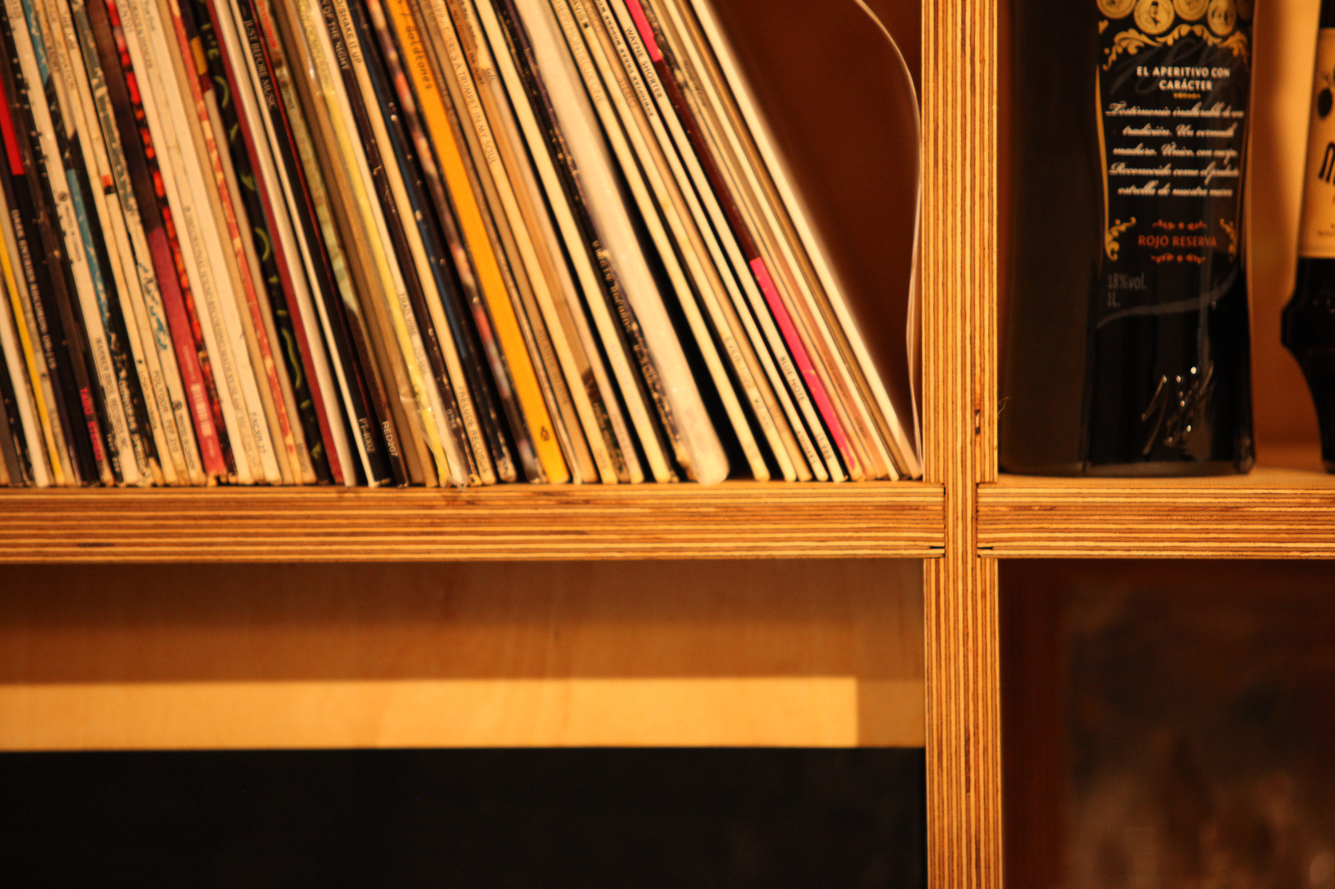
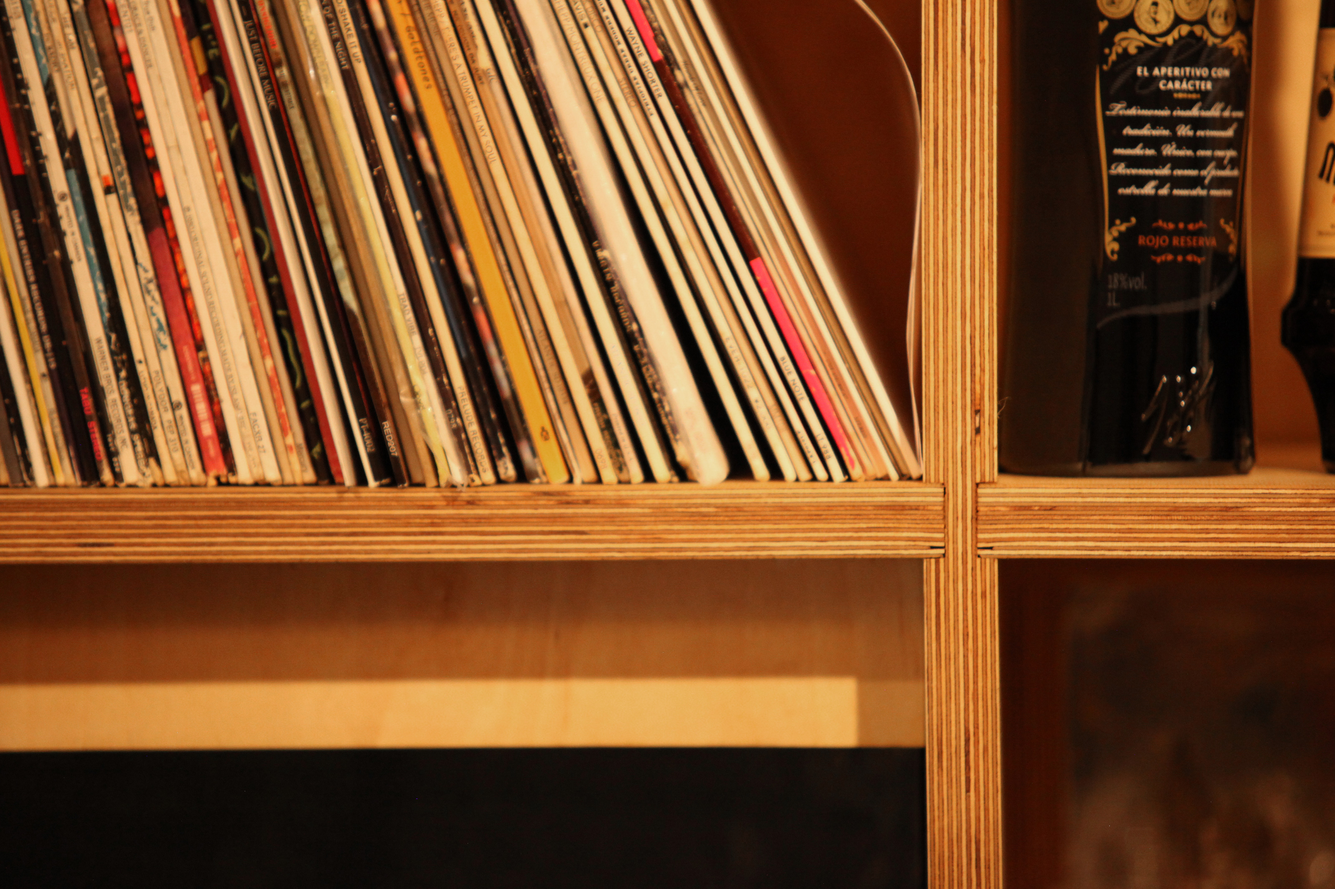
add operating time, update mobile image saturation

diff --git a/index.html b/index.html
@@ -20,7 +20,7 @@
         <div class="masthead-left">
             <h1 class="logo">
               <!-- <span class="logo-text">The Little Jerry</span> -->
-              <img src="img/TheLittleJerryLogo_brown.svg" alt="logo">
+              <img src="img/TheLittleJerryLogo_brown.svg">
                       <!-- <img src="../../assets/niad_logo{{ miniHeader || isCollapsed || isWhite ? '_bl' : '' }}.svg" alt="Niad Logo" title="Niad Logo"> -->
             </h1>
         </div>
@@ -82,9 +82,10 @@
       <h1 class="heading-primary">
         <!-- <span class="heading-primary--sup">the</span><br v-if="!isMobile">
         <span class="heading-primary--main">Little Jerry</span> -->
-        <img src="img/TheLittleJerryLogo_white.svg" class="heading-primary--main" alt="logo">
+        <img src="img/TheLittleJerryLogo_white.svg" class="heading-primary--main" alt="The Little Jerry">
         <!-- <span class="heading-primary--sub">Summer 2019</span> -->
         <span class="heading-primary--sub">418 College St<br>Toronto</span>
+        <span class="heading-primary--sub">Open 5:30pm-2am Daily<br>Closed Tuesdays</span>
       </h1>
     </section>
     <section id="social" class="social">

diff --git a/css/style.css b/css/style.css
@@ -207,10 +207,17 @@ img {
     font-weight: 400;
     letter-spacing: .25rem;
     animation: moveInRight 1s ease-out; }
+    span.heading-primary--sub:last-child {
+      font-size: 2.6rem;
+      margin-top: 2.5rem;
+      line-height: 1.6;
+    }
     @media only screen and (max-width: 37.5em) {
       .heading-primary--sub {
         font-size: 2.7rem;
-        } }
+        }
+      span.heading-primary--sub:last-child {
+        font-size: 2.3rem;} }
 
 .heading-secondary {
   font-size: 4rem;
